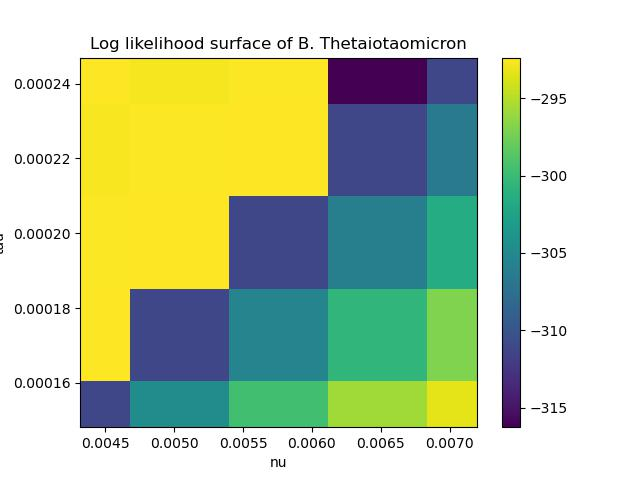
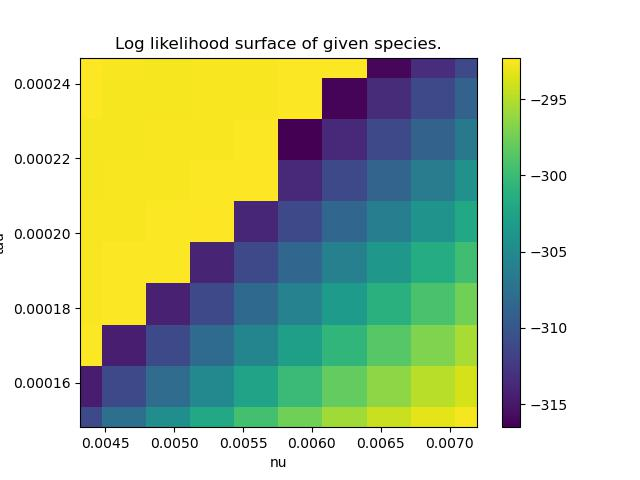
likelihood plots.

diff --git a/Scripts/plot_likelihood.py b/Scripts/plot_likelihood.py
@@ -456,7 +456,8 @@ class PlotLikelihood():
                 # z = (1 - x / 2. + x ** 5 + y ** 3) * np.exp(-x ** 2 - y ** 2)
                 # x and y are bounds, so z should be the value *inside* those bounds.
                 # Therefore, remove the last value from the z array.
-                # z = z[:-1, :-1]
+                # z = z[:, :]
+                z = z[:-1, :]
                 z_min, z_max = -numpy.abs(z).max(), -numpy.abs(z).min()
 
                 fig, ax = plt.subplots()
